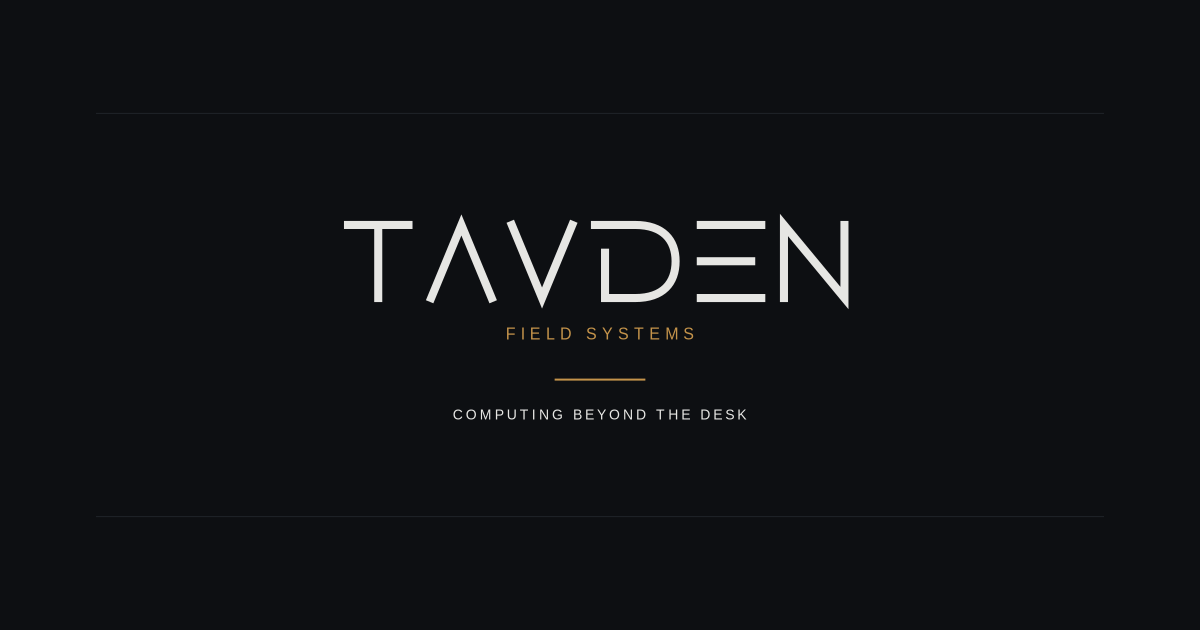
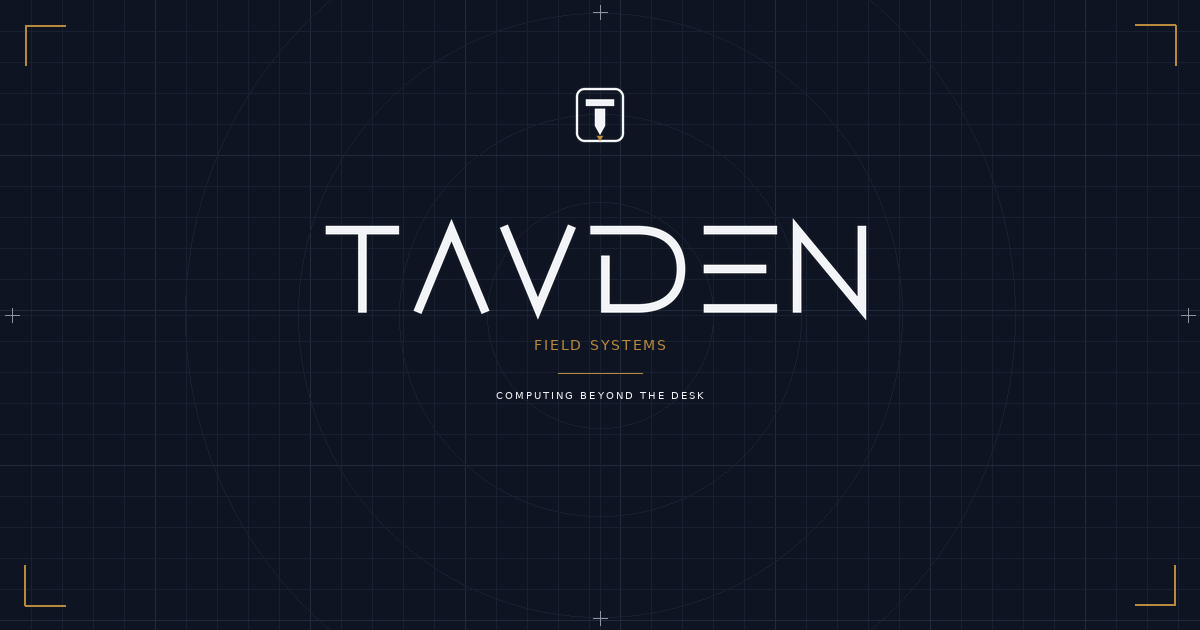
Deploy Tavden 2026 brand system and Field Suite v1.0.0 site

diff --git a/index.html b/index.html
@@ -3,87 +3,58 @@
 <head>
   <meta charset="utf-8">
   <meta name="viewport" content="width=device-width,initial-scale=1">
-  <title>Tavden — Field Computing & Security Systems</title>
-  <meta name="description" content="Tavden develops field computing and security systems built around portability, resilience and open experimentation.">
-  <meta name="theme-color" content="#0D0F12">
+  <title>Tavden - Field Systems</title>
+  <meta name="description" content="Tavden builds field computing systems, embedded tools and open platforms for computing beyond the desk.">
+  <meta name="theme-color" content="#0E1421">
   <link rel="canonical" href="https://tavden.com/">
   <link rel="icon" href="/assets/favicon.svg" type="image/svg+xml">
   <link rel="stylesheet" href="/css/site.css">
   <meta property="og:type" content="website">
-  <meta property="og:title" content="Tavden — Computing beyond the desk">
-  <meta property="og:description" content="Field computing and security systems built around portability, resilience and open experimentation.">
+  <meta property="og:title" content="Tavden - Computing beyond the desk">
+  <meta property="og:description" content="Field computing systems, embedded tools and open development.">
   <meta property="og:url" content="https://tavden.com/">
   <meta property="og:image" content="https://tavden.com/assets/og-tavden-1200x630.png">
   <meta name="twitter:card" content="summary_large_image">
-  <script type="application/ld+json">{"@context":"https://schema.org","@type":"Organization","name":"Tavden","url":"https://tavden.com","email":"hello@tavden.com","sameAs":["https://github.com/Tavden"]}</script>
+  <meta name="twitter:site" content="@TavdenHQ">
+  <script type="application/ld+json">{"@context":"https://schema.org","@type":"Organization","name":"Tavden","url":"https://tavden.com","email":"hello@tavden.com","founder":{"@type":"Person","name":"James Murphy"},"sameAs":["https://github.com/tavden","https://x.com/TavdenHQ","https://www.instagram.com/tavdenhq/","https://www.youtube.com/@TavdenHQ"]}</script>
 </head>
 <body>
-<header class="site-header">
-  <div class="wrap nav">
-    <a class="brand" href="/" aria-label="Tavden home"><img src="/assets/tavden-mark.svg" alt=""><span>TAVDEN / FIELD SYSTEMS</span></a>
-    <nav class="nav-links" aria-label="Primary"><a href="#systems">Systems</a><a href="#principles">Principles</a><a href="https://github.com/Tavden">GitHub</a></nav>
-  </div>
-</header>
-<main>
-  <section class="hero">
-    <div class="wrap hero-inner">
-      <p class="eyebrow">Tavden / Field Systems / Est. 2026</p>
-      <h1>Computing beyond the desk.</h1>
-      <p class="hero-copy">Field computing and security systems built around portability, resilience and open experimentation. Designed to be useful in the field, understandable at a glance and open to exploration.</p>
-      <div class="hero-actions"><a class="button primary" href="#systems">View current development</a><a class="button" href="https://github.com/Tavden">GitHub</a></div>
-    </div>
-  </section>
+<a class="skip" href="#main">Skip to content</a>
+<header class="site-header"><div class="wrap nav">
+<a class="brand" href="/" aria-label="Tavden home"><img src="/assets/tavden-mark.svg" alt=""><span>TAVDEN <b>/ FIELD SYSTEMS</b></span></a>
+<nav aria-label="Primary"><a href="#field-suite">Field Suite</a><a href="#principles">Principles</a><a href="#development">Development</a><a href="https://github.com/tavden">GitHub</a></nav>
+</div></header>
+<main id="main">
+<section class="hero"><div class="wrap hero-grid"><div>
+<p class="kicker">TAVDEN / FIELD SYSTEMS</p>
+<h1>Computing beyond the desk.</h1>
+<p class="hero-copy">Tavden builds field computing systems, embedded tools and open platforms designed for practical work beyond the assumptions of the desk.</p>
+<div class="actions"><a class="btn primary" href="#field-suite">Current development</a><a class="btn" href="https://github.com/tavden">View GitHub</a></div>
+</div><div class="hero-lock" aria-hidden="true"><img src="/assets/tavden-lockup-tagline.svg" alt=""></div></div></section>
 
-  <section class="section" id="systems">
-    <div class="wrap">
-      <p class="kicker">Current system / in development</p>
-      <div class="section-grid">
-        <div><h2>Tavden Field Suite</h2><p class="lede">A compact field-tool environment for the M5Stack CardPuter platform.</p></div>
-        <div>
-          <div class="status-row">
-            <div class="status-cell"><strong>v0.3.0</strong><span>Current build</span></div>
-            <div class="status-cell"><strong>8</strong><span>Modules</span></div>
-            <div class="status-cell"><strong>ADV</strong><span>Target device</span></div>
-          </div>
-        </div>
-      </div>
-      <div class="module-grid" style="margin-top:42px">
-        <article class="module"><h3>Wi-Fi Scout</h3><p>Wireless environment observation and diagnostic tooling for authorised networks.</p></article>
-        <article class="module"><h3>NetProbe</h3><p>Compact network diagnostics designed for controlled and field use.</p></article>
-        <article class="module"><h3>BLE Surveyor</h3><p>Nearby Bluetooth visibility for observation, inventory and technical experimentation.</p></article>
-        <article class="module"><h3>Field Notes</h3><p>On-device notes for observations, checks and field records.</p></article>
-        <article class="module"><h3>IR Toolkit</h3><p>Infrared utilities presented through the same restrained field interface.</p></article>
-        <article class="module"><h3>Serial Terminal</h3><p>A portable terminal surface for serial-connected devices and development work.</p></article>
-        <article class="module"><h3>Motion Guard</h3><p>Motion-aware device utility built around available CardPuter capabilities.</p></article>
-        <article class="module"><h3>System Menu</h3><p>Suite-level settings, status and device controls.</p></article>
-      </div>
-    </div>
-  </section>
+<section class="section" id="field-suite"><div class="wrap">
+<div class="section-head"><div><p class="kicker">CURRENT SYSTEM / IN DEVELOPMENT</p><h2>Tavden Field Suite</h2></div><div class="status"><span class="signal"></span><strong>v1.0.0</strong><small>CardPuter ADV · Packaging for M5Launcher</small></div></div>
+<p class="lede">Eight integrated field tools in one restrained interface. Public release follows final install validation of the exact M5Launcher artefact.</p>
+<div class="modules">
+<article><span>01</span><h3>Wi-Fi Scout</h3><p>Wireless environment observation and diagnostic tooling for authorised networks.</p></article>
+<article><span>02</span><h3>NetProbe</h3><p>Compact network diagnostics for controlled and field use.</p></article>
+<article><span>03</span><h3>BLE Surveyor</h3><p>Nearby Bluetooth visibility for observation, inventory and technical experimentation.</p></article>
+<article><span>04</span><h3>Field Notes</h3><p>Structured on-device notes for observations, checks and field records.</p></article>
+<article><span>05</span><h3>IR Toolkit</h3><p>Infrared utilities presented through the same consistent field interface.</p></article>
+<article><span>06</span><h3>Serial Terminal</h3><p>A portable terminal surface for serial-connected devices and development work.</p></article>
+<article><span>07</span><h3>Motion Guard</h3><p>Motion-aware utility built around available device capabilities.</p></article>
+<article><span>08</span><h3>System Menu</h3><p>Suite-level settings, status, diagnostics and device controls.</p></article>
+</div>
+</div></section>
 
-  <section class="section" id="principles">
-    <div class="wrap section-grid">
-      <div><p class="kicker">Design principles</p><h2>Built to remain useful.</h2></div>
-      <div class="principles">
-        <div class="principle"><h3>Purpose</h3><p>Everything exists for a reason.</p></div>
-        <div class="principle"><h3>Resilience</h3><p>Durable systems over disposable novelty.</p></div>
-        <div class="principle"><h3>Open</h3><p>Open standards and room to experiment.</p></div>
-        <div class="principle"><h3>Field</h3><p>Designed beyond the assumptions of the desk.</p></div>
-      </div>
-    </div>
-  </section>
+<section class="section split" id="principles"><div class="wrap two"><div><p class="kicker">DESIGN PRINCIPLES</p><h2>Built to remain useful.</h2></div><div class="principles">
+<div><strong>Purpose</strong><span>Everything exists for a reason.</span></div>
+<div><strong>Clarity</strong><span>Information before decoration.</span></div>
+<div><strong>Durability</strong><span>Long-life systems over disposable novelty.</span></div>
+<div><strong>Open development</strong><span>Inspectable foundations and room to experiment.</span></div>
+</div></div></section>
 
-  <section class="section">
-    <div class="wrap section-grid">
-      <div><p class="kicker">Development</p><h2>Engineering in public.</h2></div>
-      <div><p class="lede">Tavden is early, but the standard is not. Development notes, release artefacts and source will be published through the Tavden GitHub organisation as systems become ready for public use.</p><p><a class="button primary" href="https://github.com/Tavden">Follow on GitHub</a></p></div>
-    </div>
-  </section>
+<section class="section" id="development"><div class="wrap two"><div><p class="kicker">ENGINEERING IN PUBLIC</p><h2>Show the work.</h2></div><div><p class="lede">Tavden publishes progress, release artefacts and source as systems become ready. Capability claims follow testing, not marketing.</p><div class="actions"><a class="btn primary" href="https://github.com/tavden">Follow development</a><a class="btn" href="mailto:hello@tavden.com">hello@tavden.com</a></div></div></div></section>
 </main>
-<footer class="footer">
-  <div class="wrap footer-grid">
-    <div><p><strong>TAVDEN / FIELD SYSTEMS</strong></p><p class="small">Computing beyond the desk. United Kingdom.</p><p class="small"><a href="mailto:hello@tavden.com">hello@tavden.com</a></p></div>
-    <img class="footer-mark" src="/assets/tavden-mark.svg" alt="Tavden mark">
-  </div>
-</footer>
-</body>
-</html>
+<footer><div class="wrap footer-grid"><div><img src="/assets/tavden-mark.svg" alt="Tavden mark"><p><strong>TAVDEN / FIELD SYSTEMS</strong><br><span>Computing beyond the desk. · United Kingdom</span></p></div><nav aria-label="Social links"><a href="https://github.com/tavden">GitHub</a><a href="https://x.com/TavdenHQ">X</a><a href="https://www.instagram.com/tavdenhq/">Instagram</a><a href="https://www.youtube.com/@TavdenHQ">YouTube</a></nav></div></footer>
+</body></html>

diff --git a/css/site.css b/css/site.css
@@ -1,42 +1,1 @@
-:root {
-  --graphite:#0D0F12; --slate:#1F2328; --paper:#E6E6E3; --amber:#C4934A; --muted:#9AA0A6;
-  --max:1180px; --pad:clamp(20px,4vw,56px);
-}
-*{box-sizing:border-box}
-html{scroll-behavior:smooth;background:var(--graphite)}
-body{margin:0;background:var(--graphite);color:var(--paper);font-family:Arial,Helvetica,system-ui,sans-serif;line-height:1.55;-webkit-font-smoothing:antialiased}
-a{color:inherit;text-decoration-color:var(--amber);text-underline-offset:4px}
-a:hover{color:var(--amber)}
-img{max-width:100%;display:block}
-.wrap{width:min(var(--max),calc(100% - var(--pad)*2));margin-inline:auto}
-.site-header{position:sticky;top:0;z-index:20;background:color-mix(in srgb,var(--graphite) 92%,transparent);backdrop-filter:blur(14px);border-bottom:1px solid var(--slate)}
-.nav{min-height:74px;display:flex;align-items:center;justify-content:space-between;gap:24px}
-.brand{display:flex;align-items:center;gap:12px;text-decoration:none}
-.brand img{width:34px;height:34px}
-.brand span{font-size:.83rem;letter-spacing:.22em;font-weight:700}
-.nav-links{display:flex;gap:26px;align-items:center;font-size:.82rem;letter-spacing:.12em;text-transform:uppercase}
-.nav-links a{text-decoration:none;color:var(--muted)} .nav-links a:hover{color:var(--paper)}
-.hero{min-height:76vh;display:grid;align-items:center;border-bottom:1px solid var(--slate);position:relative;overflow:hidden}
-.hero:after{content:"";position:absolute;inset:12% 6%;border:1px solid var(--slate);pointer-events:none}
-.hero-inner{position:relative;z-index:1;padding-block:clamp(90px,13vw,170px)}
-.eyebrow{margin:0 0 22px;color:var(--amber);font-size:.78rem;letter-spacing:.28em;text-transform:uppercase}
-h1{font-size:clamp(3rem,8vw,7.4rem);font-weight:500;line-height:.92;letter-spacing:-.035em;margin:0;max-width:1000px}
-.hero-copy{margin:34px 0 0;max-width:700px;font-size:clamp(1.05rem,2vw,1.35rem);color:var(--muted)}
-.hero-actions{margin-top:38px;display:flex;flex-wrap:wrap;gap:14px}
-.button{display:inline-block;padding:12px 16px;border:1px solid var(--slate);text-decoration:none;font-size:.78rem;letter-spacing:.16em;text-transform:uppercase} .button.primary{border-color:var(--amber);color:var(--paper)}
-.section{padding-block:clamp(80px,10vw,140px);border-bottom:1px solid var(--slate)}
-.section-grid{display:grid;grid-template-columns:minmax(0,.72fr) minmax(0,1.28fr);gap:clamp(40px,8vw,110px)}
-h2{font-size:clamp(2rem,4vw,3.8rem);font-weight:500;letter-spacing:-.02em;margin:0 0 22px} h3{font-size:1rem;letter-spacing:.16em;text-transform:uppercase;margin:0 0 12px}
-.lede{font-size:1.18rem;color:var(--muted);max-width:760px}
-.kicker{font-size:.74rem;letter-spacing:.24em;text-transform:uppercase;color:var(--amber);margin:0 0 18px}
-.module-grid{display:grid;grid-template-columns:repeat(2,minmax(0,1fr));border-top:1px solid var(--slate);border-left:1px solid var(--slate)}
-.module{padding:28px;border-right:1px solid var(--slate);border-bottom:1px solid var(--slate);min-height:150px}
-.module p{color:var(--muted);margin:0;font-size:.95rem}
-.status-row{display:grid;grid-template-columns:repeat(3,minmax(0,1fr));border:1px solid var(--slate)}
-.status-cell{padding:26px;border-right:1px solid var(--slate)} .status-cell:last-child{border-right:0} .status-cell strong{display:block;font-size:1.55rem;font-weight:500;margin-bottom:5px} .status-cell span{color:var(--muted);font-size:.8rem;letter-spacing:.12em;text-transform:uppercase}
-.principles{display:grid;grid-template-columns:repeat(4,minmax(0,1fr));gap:22px} .principle{border-top:2px solid var(--amber);padding-top:18px} .principle p{color:var(--muted)}
-.footer{padding-block:54px} .footer-grid{display:flex;justify-content:space-between;gap:30px;align-items:flex-end} .footer p{color:var(--muted);margin:0} .footer-mark{width:52px;height:52px}
-.small{font-size:.82rem}
-@media(max-width:800px){.nav-links{display:none}.section-grid{grid-template-columns:1fr}.module-grid{grid-template-columns:1fr}.status-row{grid-template-columns:1fr}.status-cell{border-right:0;border-bottom:1px solid var(--slate)}.status-cell:last-child{border-bottom:0}.principles{grid-template-columns:1fr 1fr}.footer-grid{align-items:flex-start;flex-direction:column}.hero:after{inset:5% 14px}}
-@media(max-width:520px){.principles{grid-template-columns:1fr}}
-@media(prefers-reduced-motion:reduce){html{scroll-behavior:auto}}
+:root{--obsidian:#090C12;--midnight:#0E1421;--blueprint:#132440;--line:#263346;--mist:#F2F4F7;--steel:#8E96A3;--gold:#B98A3D;--brass:#CDA15A;--max:1180px}*{box-sizing:border-box}html{scroll-behavior:smooth}body{margin:0;background:var(--midnight);color:var(--mist);font-family:Arial,Helvetica,system-ui,sans-serif;line-height:1.55;background-image:linear-gradient(rgba(38,51,70,.22) 1px,transparent 1px),linear-gradient(90deg,rgba(38,51,70,.22) 1px,transparent 1px);background-size:48px 48px}a{color:inherit}.skip{position:absolute;left:-9999px}.skip:focus{left:16px;top:16px;background:var(--mist);color:var(--obsidian);padding:8px 12px;z-index:999}.wrap{width:min(calc(100% - 40px),var(--max));margin:auto}.site-header{position:sticky;top:0;z-index:50;background:rgba(9,12,18,.90);backdrop-filter:blur(16px);border-bottom:1px solid var(--line)}.nav{height:72px;display:flex;align-items:center;justify-content:space-between;gap:24px}.brand{display:flex;align-items:center;gap:10px;text-decoration:none;font-weight:700;letter-spacing:.06em;font-size:14px}.brand img{width:32px;height:32px}.brand b{font-weight:400;color:var(--gold)}nav{display:flex;gap:24px}nav a{text-decoration:none;color:#d7dce2;font-size:14px}nav a:hover,nav a:focus{color:var(--gold)}.hero{min-height:78vh;display:grid;align-items:center;position:relative;overflow:hidden;border-bottom:1px solid var(--line)}.hero:before{content:"";position:absolute;inset:0;background:radial-gradient(circle at 72% 45%,rgba(19,36,64,.72),transparent 38%),radial-gradient(circle at 72% 45%,transparent 0 180px,rgba(185,138,61,.10) 181px 182px,transparent 183px 300px,rgba(142,150,163,.08) 301px 302px,transparent 303px)}.hero-grid{display:grid;grid-template-columns:1.05fr .95fr;gap:70px;align-items:center;position:relative}.kicker{color:var(--gold);letter-spacing:.23em;font-size:12px;font-weight:700;margin:0 0 18px}h1,h2{font-weight:400;letter-spacing:.01em;margin:0}h1{font-size:clamp(54px,7vw,94px);line-height:.98;max-width:820px}h2{font-size:clamp(40px,5vw,66px);line-height:1.05}.hero-copy,.lede{font-size:clamp(18px,2vw,22px);color:#c4ccd5;max-width:720px}.actions{display:flex;gap:12px;flex-wrap:wrap;margin-top:30px}.btn{border:1px solid #445166;border-radius:3px;padding:12px 17px;text-decoration:none;font-size:14px;letter-spacing:.04em;background:rgba(9,12,18,.35)}.btn.primary{border-color:var(--gold);color:#fff}.btn:hover{background:#172238}.hero-lock img{width:100%;max-width:520px;display:block;margin:auto;opacity:.97}.section{padding:100px 0;border-bottom:1px solid var(--line);background:rgba(9,12,18,.28)}.section:nth-child(even){background:rgba(14,20,33,.62)}.section-head{display:flex;align-items:end;justify-content:space-between;gap:30px}.status{min-width:280px;padding:15px 17px;border:1px solid var(--line);display:grid;grid-template-columns:16px auto;grid-template-rows:auto auto;column-gap:10px}.status .signal{width:8px;height:8px;background:var(--gold);border-radius:50%;align-self:center}.status strong{font-size:18px;letter-spacing:.08em}.status small{grid-column:2;color:#aab3be}.modules{display:grid;grid-template-columns:repeat(4,1fr);gap:1px;background:var(--line);border:1px solid var(--line);margin-top:45px}.modules article{background:#0c1320;padding:28px;min-height:210px}.modules span{color:var(--gold);font-size:12px;letter-spacing:.15em}.modules h3{font-size:19px;margin:34px 0 8px;font-weight:600}.modules p{margin:0;color:#aeb8c4;font-size:14px}.two{display:grid;grid-template-columns:.8fr 1.2fr;gap:80px;align-items:start}.principles{display:grid;grid-template-columns:1fr 1fr;border:1px solid var(--line)}.principles div{padding:26px;border-right:1px solid var(--line);border-bottom:1px solid var(--line);min-height:125px}.principles strong{display:block;font-size:16px;margin-bottom:6px}.principles span{color:#aeb8c4}footer{padding:42px 0;background:var(--obsidian)}.footer-grid{display:flex;justify-content:space-between;align-items:center;gap:30px}.footer-grid>div{display:flex;gap:14px;align-items:center}.footer-grid img{width:42px}footer p{margin:0;font-size:13px;letter-spacing:.04em}footer span{color:#8e96a3}@media(max-width:900px){.nav nav{display:none}.hero{min-height:auto;padding:110px 0 80px}.hero-grid,.two{grid-template-columns:1fr;gap:50px}.hero-lock{order:-1;max-width:420px}.section-head{align-items:start;flex-direction:column}.modules{grid-template-columns:1fr 1fr}.footer-grid{align-items:flex-start;flex-direction:column}}@media(max-width:560px){.wrap{width:min(calc(100% - 28px),var(--max))}h1{font-size:52px}.section{padding:72px 0}.modules,.principles{grid-template-columns:1fr}.modules article{min-height:auto}footer nav{flex-wrap:wrap;gap:14px}}@media(prefers-reduced-motion:reduce){html{scroll-behavior:auto}}

diff --git a/404.html b/404.html
@@ -1,90 +1,2 @@
 <!doctype html>
-<html lang="en-GB">
-<head>
-  <meta charset="utf-8">
-  <meta name="viewport" content="width=device-width,initial-scale=1">
-  <title>Not found — Tavden</title>
-  <meta name="description" content="Tavden develops field computing and security systems built around portability, resilience and open experimentation.">
-  <meta name="theme-color" content="#0D0F12">
-  <link rel="canonical" href="https://tavden.com/">
-  <link rel="icon" href="/assets/favicon.svg" type="image/svg+xml">
-  <link rel="stylesheet" href="/css/site.css">
-  <meta property="og:type" content="website">
-  <meta property="og:title" content="Tavden — Computing beyond the desk">
-  <meta property="og:description" content="Field computing and security systems built around portability, resilience and open experimentation.">
-  <meta property="og:url" content="https://tavden.com/">
-  <meta property="og:image" content="https://tavden.com/assets/og-tavden-1200x630.png">
-  <meta name="twitter:card" content="summary_large_image">
-  <script type="application/ld+json">{"@context":"https://schema.org","@type":"Organization","name":"Tavden","url":"https://tavden.com","email":"hello@tavden.com","sameAs":["https://github.com/Tavden"]}</script>
-</head>
-<body>
-<header class="site-header">
-  <div class="wrap nav">
-    <a class="brand" href="/" aria-label="Tavden home"><img src="/assets/tavden-mark.svg" alt=""><span>TAVDEN / FIELD SYSTEMS</span></a>
-    <nav class="nav-links" aria-label="Primary"><a href="#systems">Systems</a><a href="#principles">Principles</a><a href="https://github.com/Tavden">GitHub</a></nav>
-  </div>
-</header>
-<main><section class="section"><div class="wrap"><p class="kicker">404</p><h2>Page not found.</h2><p><a href="/">Return to Tavden</a></p></div></section>
-
-  <section class="hero">
-    <div class="wrap hero-inner">
-      <p class="eyebrow">Tavden / Field Systems / Est. 2026</p>
-      <h1>Computing beyond the desk.</h1>
-      <p class="hero-copy">Field computing and security systems built around portability, resilience and open experimentation. Designed to be useful in the field, understandable at a glance and open to exploration.</p>
-      <div class="hero-actions"><a class="button primary" href="#systems">View current development</a><a class="button" href="https://github.com/Tavden">GitHub</a></div>
-    </div>
-  </section>
-
-  <section class="section" id="systems">
-    <div class="wrap">
-      <p class="kicker">Current system / in development</p>
-      <div class="section-grid">
-        <div><h2>Tavden Field Suite</h2><p class="lede">A compact field-tool environment for the M5Stack CardPuter platform.</p></div>
-        <div>
-          <div class="status-row">
-            <div class="status-cell"><strong>v0.3.0</strong><span>Current build</span></div>
-            <div class="status-cell"><strong>8</strong><span>Modules</span></div>
-            <div class="status-cell"><strong>ADV</strong><span>Target device</span></div>
-          </div>
-        </div>
-      </div>
-      <div class="module-grid" style="margin-top:42px">
-        <article class="module"><h3>Wi-Fi Scout</h3><p>Wireless environment observation and diagnostic tooling for authorised networks.</p></article>
-        <article class="module"><h3>NetProbe</h3><p>Compact network diagnostics designed for controlled and field use.</p></article>
-        <article class="module"><h3>BLE Surveyor</h3><p>Nearby Bluetooth visibility for observation, inventory and technical experimentation.</p></article>
-        <article class="module"><h3>Field Notes</h3><p>On-device notes for observations, checks and field records.</p></article>
-        <article class="module"><h3>IR Toolkit</h3><p>Infrared utilities presented through the same restrained field interface.</p></article>
-        <article class="module"><h3>Serial Terminal</h3><p>A portable terminal surface for serial-connected devices and development work.</p></article>
-        <article class="module"><h3>Motion Guard</h3><p>Motion-aware device utility built around available CardPuter capabilities.</p></article>
-        <article class="module"><h3>System Menu</h3><p>Suite-level settings, status and device controls.</p></article>
-      </div>
-    </div>
-  </section>
-
-  <section class="section" id="principles">
-    <div class="wrap section-grid">
-      <div><p class="kicker">Design principles</p><h2>Built to remain useful.</h2></div>
-      <div class="principles">
-        <div class="principle"><h3>Purpose</h3><p>Everything exists for a reason.</p></div>
-        <div class="principle"><h3>Resilience</h3><p>Durable systems over disposable novelty.</p></div>
-        <div class="principle"><h3>Open</h3><p>Open standards and room to experiment.</p></div>
-        <div class="principle"><h3>Field</h3><p>Designed beyond the assumptions of the desk.</p></div>
-      </div>
-    </div>
-  </section>
-
-  <section class="section">
-    <div class="wrap section-grid">
-      <div><p class="kicker">Development</p><h2>Engineering in public.</h2></div>
-      <div><p class="lede">Tavden is early, but the standard is not. Development notes, release artefacts and source will be published through the Tavden GitHub organisation as systems become ready for public use.</p><p><a class="button primary" href="https://github.com/Tavden">Follow on GitHub</a></p></div>
-    </div>
-  </section>
-</main>
-<footer class="footer">
-  <div class="wrap footer-grid">
-    <div><p><strong>TAVDEN / FIELD SYSTEMS</strong></p><p class="small">Computing beyond the desk. United Kingdom.</p><p class="small"><a href="mailto:hello@tavden.com">hello@tavden.com</a></p></div>
-    <img class="footer-mark" src="/assets/tavden-mark.svg" alt="Tavden mark">
-  </div>
-</footer>
-</body>
-</html>
+<html lang="en-GB"><head><meta charset="utf-8"><meta name="viewport" content="width=device-width,initial-scale=1"><title>Page not found - Tavden</title><meta name="theme-color" content="#0E1421"><link rel="icon" href="/assets/favicon.svg" type="image/svg+xml"><link rel="stylesheet" href="/css/site.css"></head><body><header class="site-header"><div class="wrap nav"><a class="brand" href="/"><img src="/assets/tavden-mark.svg" alt=""><span>TAVDEN <b>/ FIELD SYSTEMS</b></span></a></div></header><main><section class="hero"><div class="wrap"><p class="kicker">404 / NOT FOUND</p><h1>Nothing here.</h1><p class="hero-copy">Return to Tavden.</p><div class="actions"><a class="btn primary" href="/">Home</a></div></div></section></main><footer><div class="wrap footer-grid"><div><img src="/assets/tavden-mark.svg" alt="Tavden mark"><p><strong>TAVDEN / FIELD SYSTEMS</strong><br><span>Computing beyond the desk.</span></p></div></div></footer></body></html>

diff --git a/README_DEPLOY.md b/README_DEPLOY.md
@@ -1,14 +1,22 @@
-# Tavden Website — Deployment
+# Deploy Tavden Website
 
-This site is deliberately static: HTML + CSS + SVG/PNG assets, with no framework, package manager, tracking script or external font dependency.
+The folder is a dependency-free static site designed for the `tavden.github.io` repository and `tavden.com`.
 
-## Recommended deployment pattern
-1. Create a public or private website repository under the Tavden GitHub organisation.
-2. Commit the contents of this `website/` directory at repository root.
-3. Deploy with any static host (Cloudflare Pages, GitHub Pages, Netlify, etc.).
-4. Set the custom domain to `tavden.com` and redirect `www` to the apex domain.
-5. Keep HTTPS forced.
-6. Verify `/robots.txt`, `/sitemap.xml`, social preview image and favicon after DNS propagation.
+## Replace current site
+From the repository root, replace the old site files with the contents of this `website` directory, then:
 
-## Before going live
-Change no brand copy unless you have a reason. The site is intentionally restrained: no stock imagery, no fake customer logos, no unsupported claims, no trendy animation layer and no dependency that can quietly disappear.
+```bash
+git add -A
+git commit -m "Refresh Tavden website to locked 2026 brand standard"
+git push
+```
+
+GitHub Pages should remain configured to deploy from `main` / root. `CNAME` keeps the custom domain declaration in the repository.
+
+## Verify after deploy
+- `https://tavden.com` loads over HTTPS.
+- Mobile layout is clean.
+- `https://tavden.com/assets/og-tavden-1200x630.png` loads.
+- `https://tavden.com/.well-known/security.txt` loads.
+- GitHub and social links work.
+- Field Suite wording remains **in development / packaging for M5Launcher** until the release is actually live.
